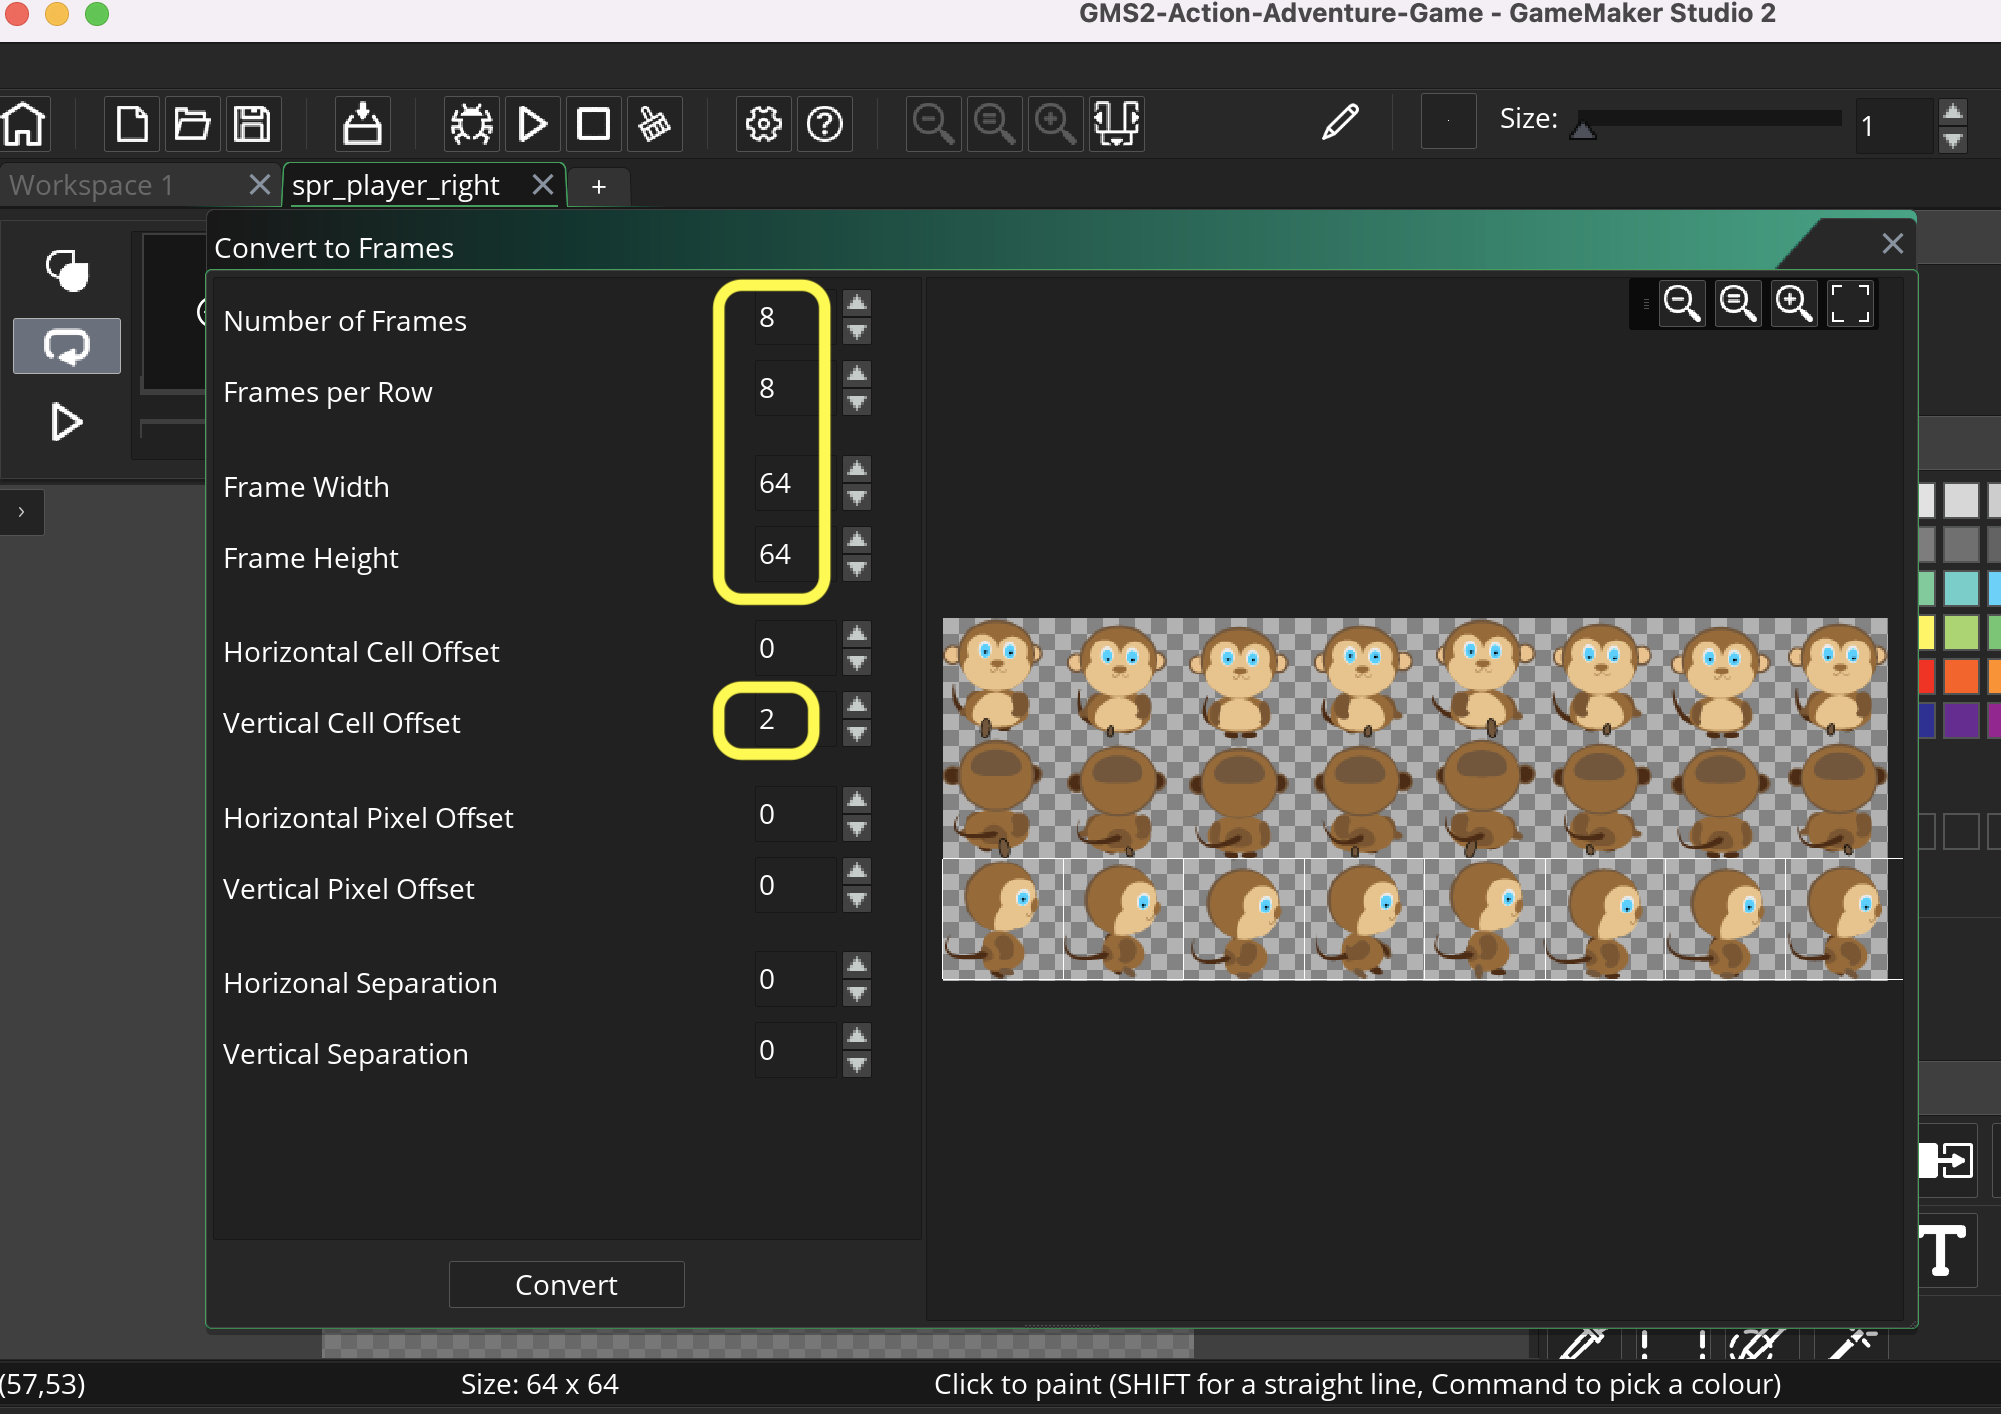
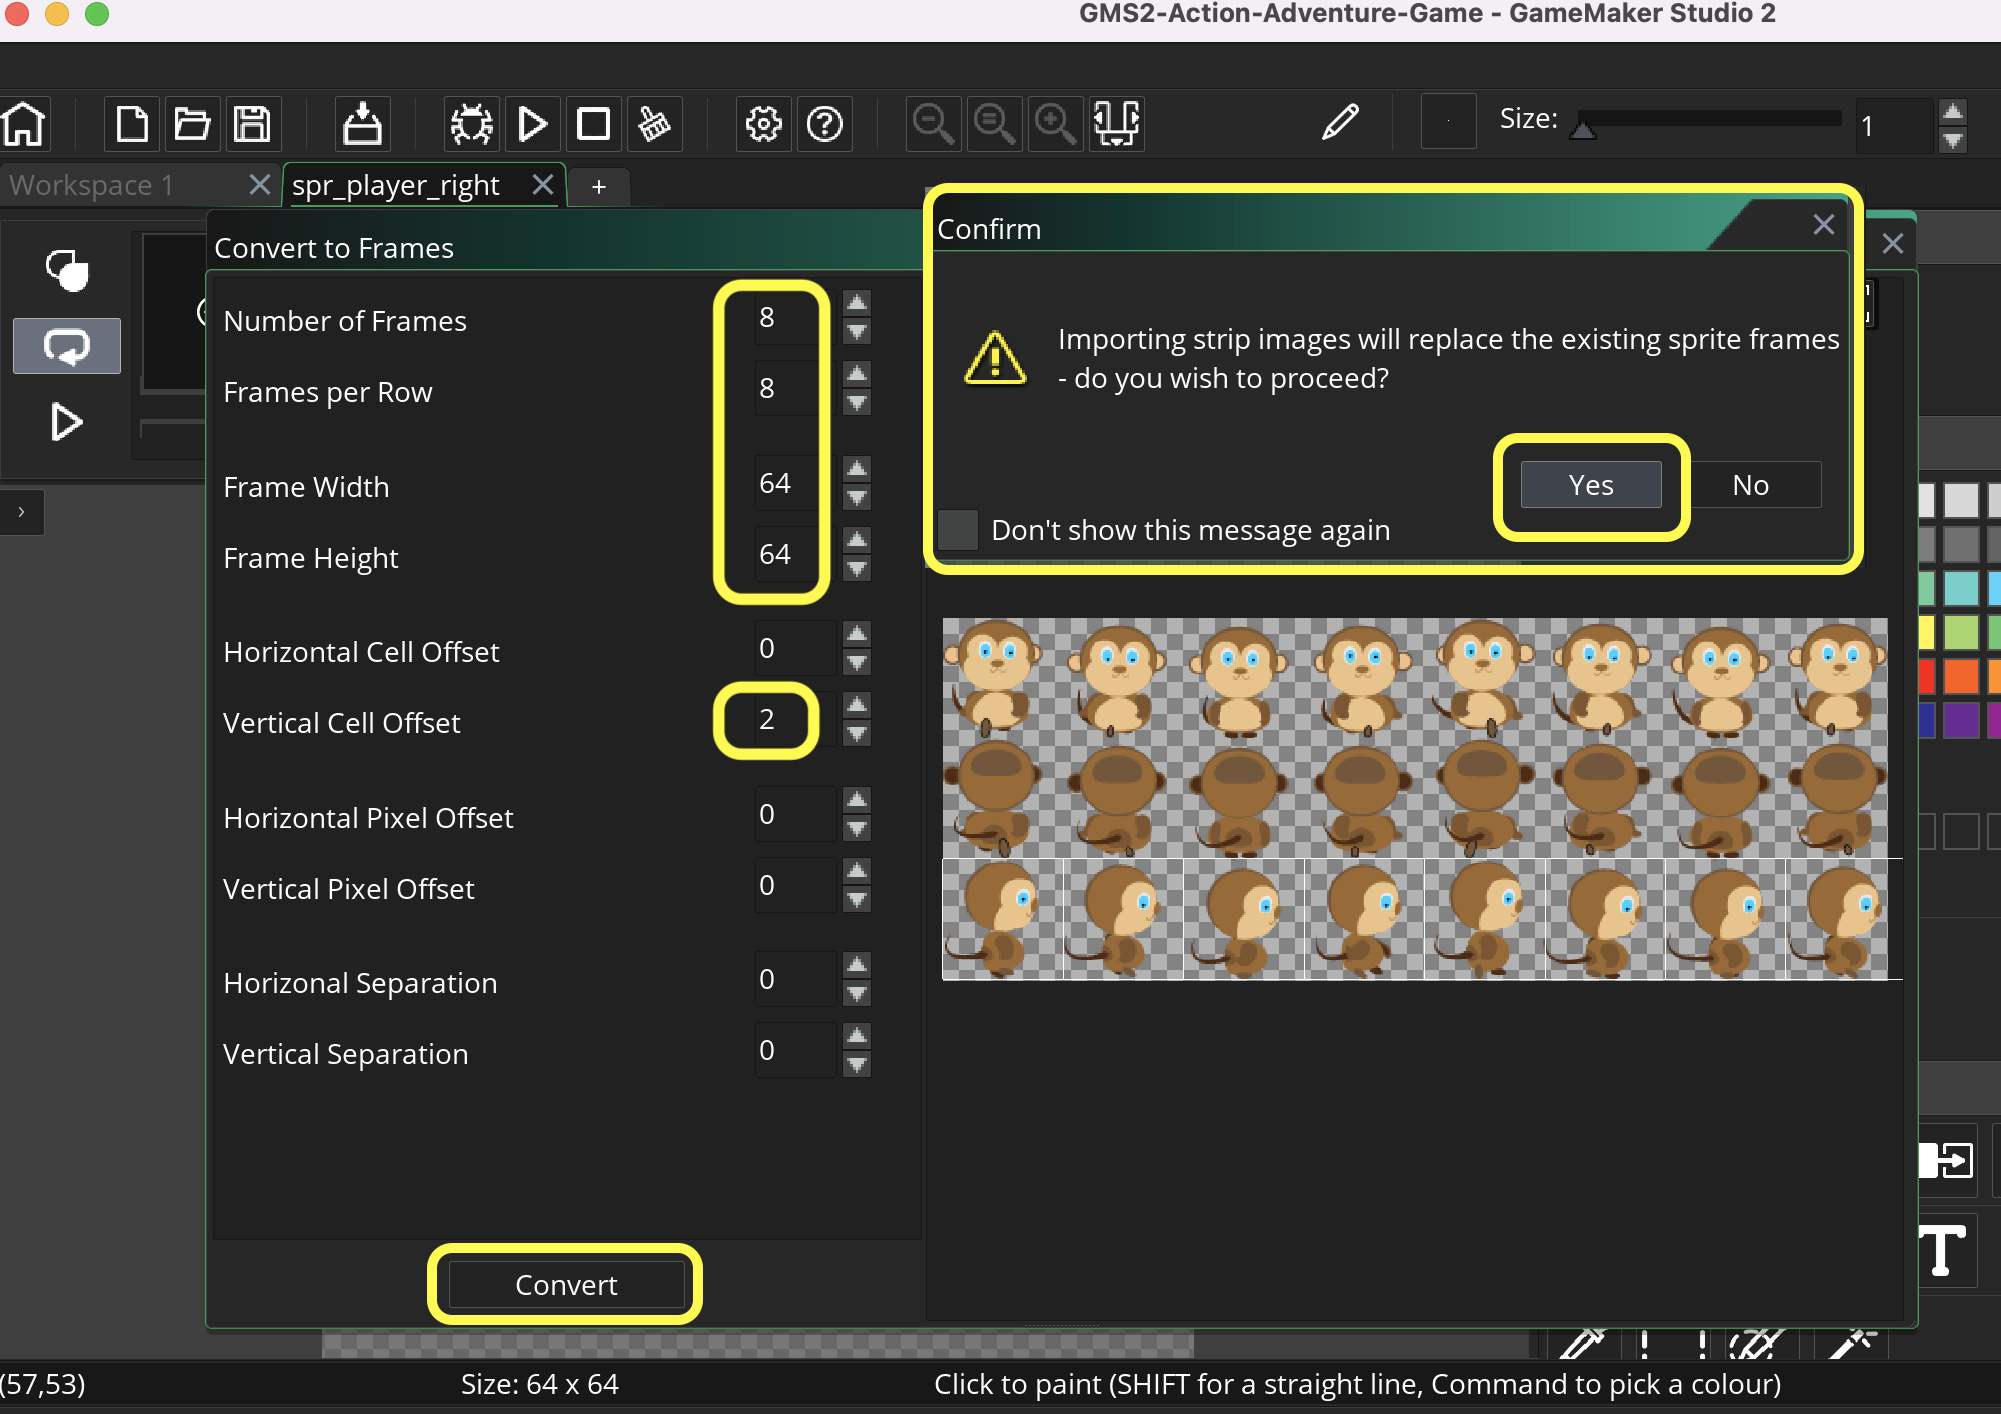
porting walk through

Changed region(s): [[0.4338, 0.1245, 0.9295, 0.4045], [0.2169, 0.8713, 0.3718, 0.9646]]

diff --git a/player-anim/README.md b/player-anim/README.md
@@ -39,21 +39,25 @@ Double click on `spr_player_right` and select <kbd>Image | Import Strip Image</k
 
 ##### `Step 4.`\|`SPCRK`|:small_blue_diamond: :small_blue_diamond: :small_blue_diamond: :small_blue_diamond:
 
-This brings up the **Convert to Frames** window.  As you can see there are three rows of animation with 8 cells in each.  For walking right we are on the third bottom row.  The sprites are `64` by `64`.  Change 
+This brings up the **Convert to Frames** window.  As you can see there are three rows of animation with 8 cells in each.  For walking right we are on the third bottom row.  The sprites are `64` by `64`.  Change **Number of Frames** and **Frames per Row** to `8` frames.  Change **Frame Width** and **Frame Height** to `64` pixels.  Now we want the third row so set the **Vertical Cell Offset** to `2`. Confrim the import.
 
-![alt_text](images/convertToFrames.png)
+![import the 8 walking right frames of animation](images/convertToFrames.png)
 
 <img src="https://via.placeholder.com/500x2/45D7CA/45D7CA" alt="drawing" height="2px" alt = ""/>
 
 ##### `Step 5.`\|`SPCRK`| :small_orange_diamond:
 
-![alt_text](images/.png)
+Open the **spr_player_right** up again and change the framerate to `12` **FPS**.
+
+![change fps to 12](images/playerrfps.png)
 
 <img src="https://via.placeholder.com/500x2/45D7CA/45D7CA" alt="drawing" height="2px" alt = ""/>
 
 ##### `Step 6.`\|`SPCRK`| :small_orange_diamond: :small_blue_diamond:
 
-![alt_text](images/.png)
+Hit the <kbd>Play</kbd> button on the sprite and it should animate fairly qiuckly like so:
+
+
 
 <img src="https://via.placeholder.com/500x2/45D7CA/45D7CA" alt="drawing" height="2px" alt = ""/>
 
